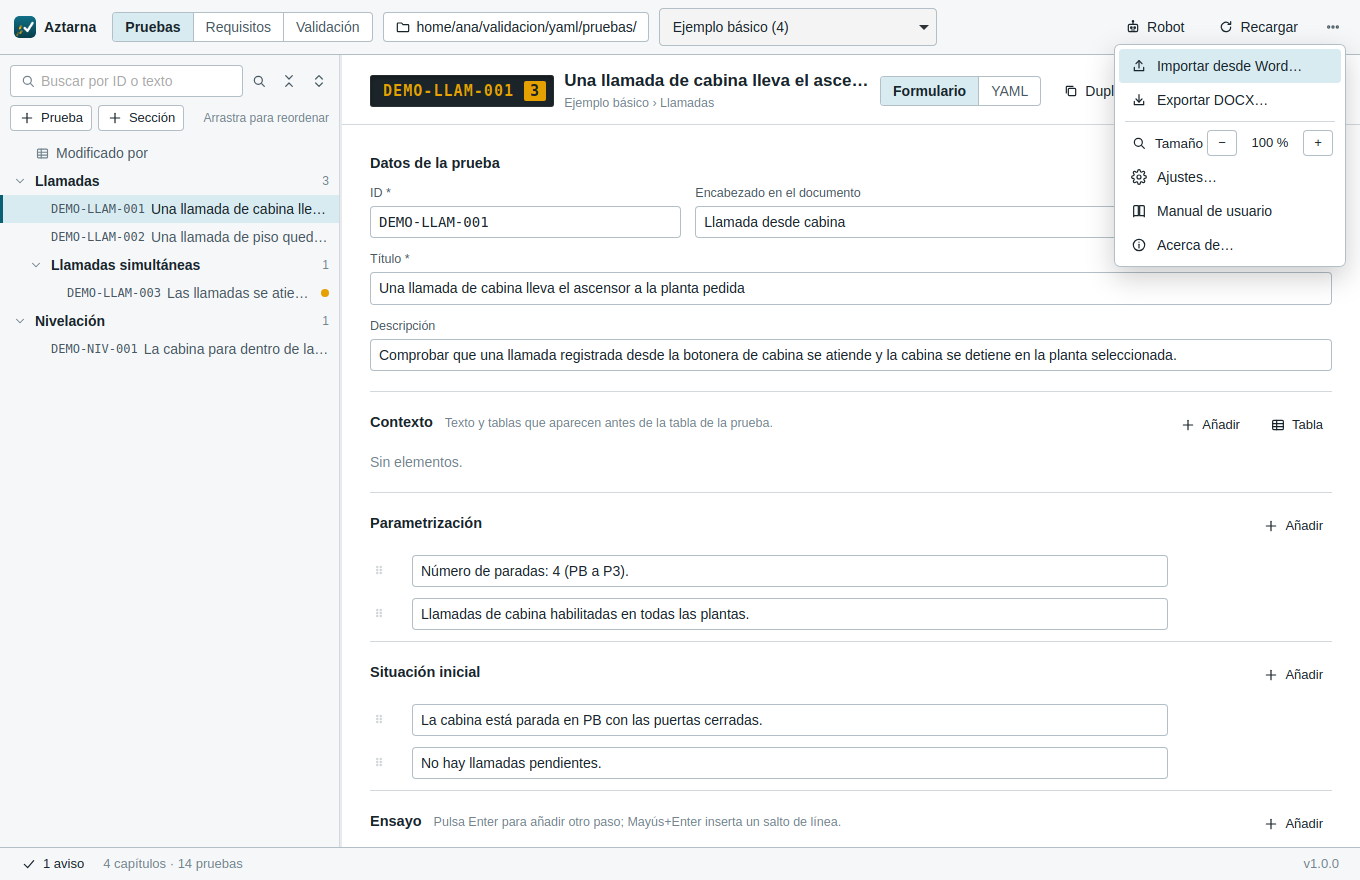
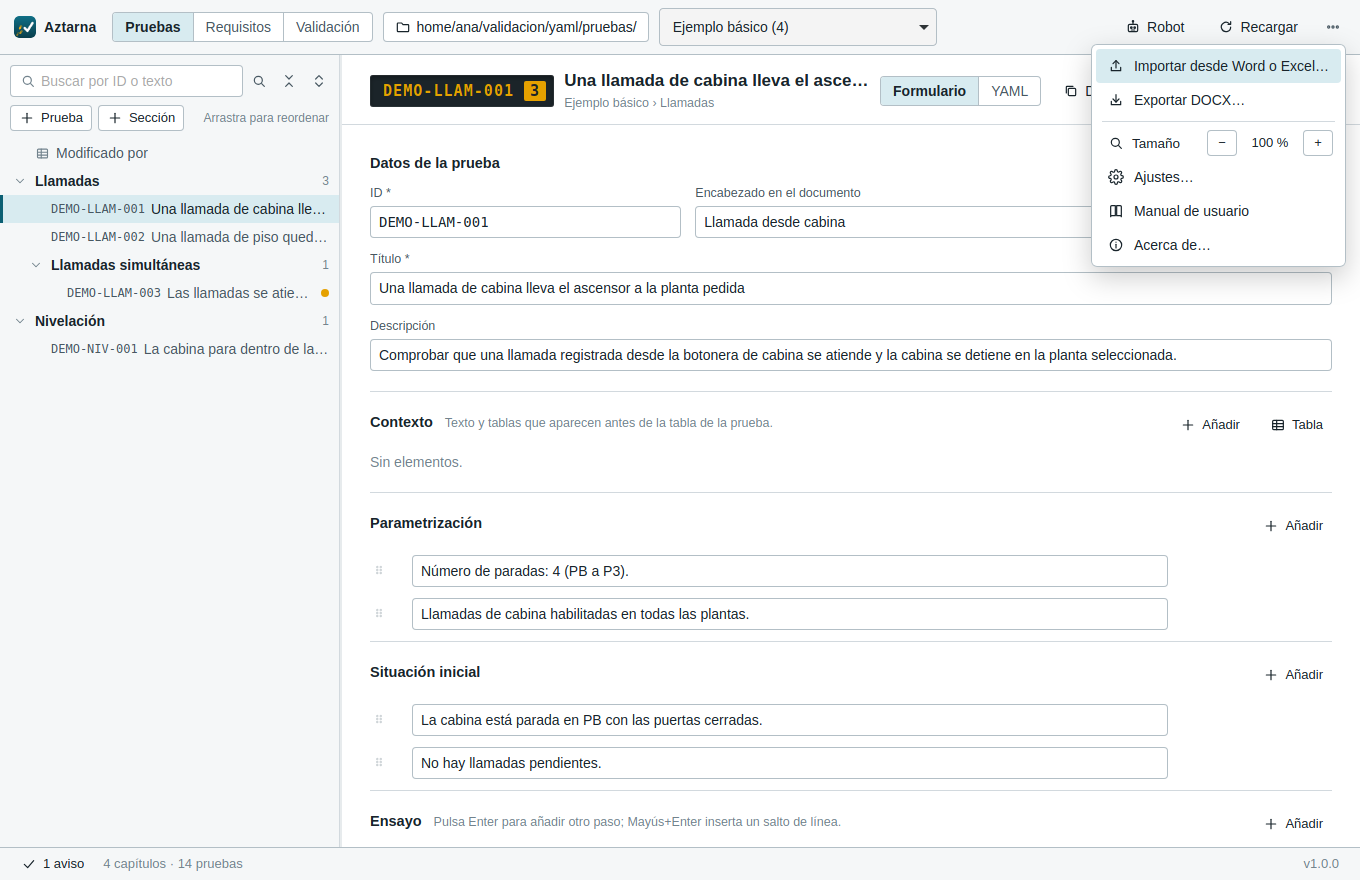
Manual, README, CHANGELOG y capturas de la importación desde Excel
- Manual: apartado 7 «Importar desde Word o Excel», con importar poco a poco,
  7.6 «Desde Excel» y 7.7 «El mapeo del proyecto (importacion.yaml)».
- Capturas nuevas (54-56) y rehechas (35, 37).
- README y CHANGELOG (1.1.0).

Cierra #9

Changed region(s): [[0.8029, 0.1534, 0.9265, 0.3068], [0.8029, 0.0614, 0.9574, 0.1227]]

diff --git a/MANUAL.md b/MANUAL.md
@@ -12,7 +12,7 @@ ejecutan. No hace falta saber programar ni conocer el formato de los archivos.
 4. [Editar pruebas (modo Pruebas)](#4-editar-pruebas-modo-pruebas)
 5. [Requisitos y trazabilidad (modo Requisitos)](#5-requisitos-y-trazabilidad-modo-requisitos)
 6. [Ejecutar y validar (modo Validación)](#6-ejecutar-y-validar-modo-validación)
-7. [Importar desde Word](#7-importar-desde-word)
+7. [Importar desde Word o Excel](#7-importar-desde-word-o-excel)
 8. [Atajos de teclado](#8-atajos-de-teclado)
 9. [Preguntas frecuentes y problemas](#9-preguntas-frecuentes-y-problemas)
 10. [Robot Framework: guía para quien escribe los tests](#10-robot-framework-guía-para-quien-escribe-los-tests)
@@ -172,8 +172,9 @@ en Ubuntu, *Configuración → Apariencia*.
 
 El menú **⋯**, a la derecha de la barra superior, reúne:
 
-- **Importar desde Word…**: pruebas, requisitos o resultados de una
-  ejecución (ver 7). En el modo Validación, solo resultados.
+- **Importar desde Word o Excel…**: pruebas o requisitos de un Word o un
+  Excel, o resultados de una ejecución desde Word (ver 7). En el modo
+  Validación, solo resultados.
 - **Exportar DOCX…** (en el modo Requisitos, *Exportar DOCX de requisitos…*):
   ver 4.8. No aparece en el modo Validación.
 - **Tamaño**: **−** y **+** agrandan o reducen todo (texto, botones,
@@ -905,13 +906,16 @@ versión, archiva su validación con el informe.
 
 ---
 
-## 7. Importar desde Word
+## 7. Importar desde Word o Excel
 
-**⋯ → Importar desde Word…** trae al proyecto las pruebas o los requisitos de
-un documento de Word, o los resultados de una ejecución. El editor no cambia
-nada hasta el último paso, y recuerda lo que eliges para la próxima vez.
+**⋯ → Importar desde Word o Excel…** trae al proyecto las pruebas o los
+requisitos de un documento de Word o de un Excel, o los resultados de una
+ejecución (desde Word). El editor no cambia nada hasta el último paso, y
+recuerda lo que eliges para la próxima vez (ver 7.7). Se puede importar
+**poco a poco**: cada vez, un Word o un Excel con unas pocas pruebas nuevas o
+cambiadas, que van a su capítulo y su sección del proyecto (ver 7.4).
 
-Se espera la forma de las plantillas: la primera fila de cada tabla es
+Del Excel se habla en 7.6. Del Word se espera la forma de las plantillas: la primera fila de cada tabla es
 «**ID** | **Título**» y cada celda de las demás empieza por «**Etiqueta:**
 valor» («Descripción: …», «Fuente: …»). Un párrafo «Etiqueta:» solo en su
 línea abre otro campo dentro de la misma celda («Situación inicial:» y
@@ -922,10 +926,12 @@ secciones.
 
 ![Elegir el documento](docs/manual/37_importar_documento.png)
 
-Elige el Word, **qué contiene** (pruebas, requisitos, los dos, o resultados;
-solo sirve para proponer) y **dónde se importa**: en un **proyecto nuevo**
-(una carpeta con `pruebas/` y `requisitos/`; nada de lo que ya tienes se toca)
-o **añadido al proyecto abierto** (sus capítulos van al final del índice).
+Elige el Word o el Excel, **qué contiene** (pruebas, requisitos, los dos, o
+resultados; solo sirve para proponer) y **dónde se importa**: en un **proyecto
+nuevo** (una carpeta con `pruebas/` y `requisitos/`; nada de lo que ya tienes
+se toca) o **añadido al proyecto abierto**: lo de cada capítulo va al capítulo
+del proyecto con el mismo nombre (si no hay ninguno, se crea al final del
+índice).
 
 Con documentos grandes cada paso puede tardar un poco: la ventana se pone gris
 con un mensaje y el tiempo que lleva.
@@ -982,6 +988,15 @@ en cada uno y qué hacer:
 Por defecto se actualizan los que cambian y no se tocan los que están igual;
 *Para todos…* aplica lo mismo a todos.
 
+**Importar poco a poco.** Al añadir al proyecto abierto, cada capítulo del
+documento va al capítulo del proyecto con el mismo nombre (la revisión lo
+indica: *se añade al capítulo que ya existe*), y dentro de él cada prueba a
+la sección con el mismo nombre, detrás de las que ya tiene. Una sección que
+no existe se crea al final de su sección madre. No se repiten los textos ni
+las tablas que ya estaban, ni las secciones que se quedarían vacías porque
+todas sus pruebas ya existían. Así cada persona puede ir importando sus
+pruebas nuevas, una tanda cada vez, sin que se dupliquen capítulos.
+
 ### 7.5 Resultados de una ejecución
 
 Para un Word con las tablas de las pruebas y unas filas más con el resultado
@@ -1007,6 +1022,75 @@ prueba, banco y responsable. Con una validación abierta, se puede crear
 
 La ejecución queda **abierta** con esas pruebas y sus resultados (con su fecha
 y quién la ejecutó): revísala, completa las pendientes y ciérrala.
+
+### 7.6 Desde Excel
+
+Un Excel con **una fila por prueba** (o por requisito) y **una columna por
+campo**. Lo más cómodo es partir de la plantilla: en el primer paso del
+asistente, *Descarga una plantilla* guarda un Excel con una columna por campo
+(con las opciones del proyecto en desplegables) que se importa sin tener que
+elegir nada.
+
+- **Hojas.** Cada hoja es un grupo; en el paso 2 eliges qué hay en cada una:
+  pruebas, requisitos o *No importar* (para las de notas o datos).
+
+  ![Las hojas del Excel](docs/manual/54_excel_hojas.png)
+
+- **Columnas.** La cabecera es la primera fila con dos celdas o más (puede
+  haber un título encima). En el paso 3 eliges a qué campo va cada columna,
+  igual que con las etiquetas del Word; además de los campos están **ID**,
+  **Título**, **Capítulo** y **Sección**.
+
+  ![A qué campo va cada columna](docs/manual/55_excel_columnas.png)
+
+- **Filas.** Cada fila con ID o título es una prueba nueva. Una fila sin ID ni
+  título continúa la de arriba: así se puede escribir un paso por fila.
+- **Listas** (pasos, situación inicial, parametrización): una línea por
+  elemento dentro de la celda (**Alt+Intro**); «1.», «-» o «•» al principio
+  se quitan. Requisitos y tags, separados por comas o en líneas.
+- **Capítulo y sección.** Sin columna *Capítulo*, el capítulo es el nombre de
+  la hoja. «A > B» en la sección es la subsección B de A. Una celda vacía de
+  capítulo o sección sigue siendo la de arriba (como una celda combinada).
+- **Actualizar desde un Excel** cambia solo los campos que tienen columna: lo
+  demás que tenga la prueba (escrito después en el editor, por ejemplo) se
+  conserva, y sus campos adicionales se añaden a los que ya tenía.
+- Las imágenes del Excel no se importan (se avisa); añádelas en el editor.
+  Los resultados de una ejecución se importan desde Word.
+
+### 7.7 El mapeo del proyecto (importacion.yaml)
+
+Al importar, en la revisión está marcado **Guardar lo elegido en el
+proyecto**: qué es cada hoja y a qué campo va cada columna o etiqueta se
+guardan en `importacion.yaml`, en la carpeta del proyecto (junto a
+`aztarna.yaml`). Súbelo a Git con las pruebas: la próxima vez que alguien
+importe en el proyecto, desde cualquier PC, el paso **Campos** dice *Se parte
+del mapeo del proyecto* y trae elegido lo de la vez anterior.
+
+![Campos elegidos a partir del mapeo del proyecto](docs/manual/56_excel_mapeo_proyecto.png)
+
+Se puede editar a mano. Los nombres van tal cual están en el Excel o en el
+Word (no cuentan mayúsculas, tildes ni espacios) y los campos, como en el
+desplegable (`id`, `titulo`, `pasos`, `adicional`, `ignorar`…):
+
+```yaml
+excel:
+  hojas:
+    Llamadas: prueba
+    Notas: ignorar
+  columnas:
+    prueba:
+      ID: id
+      Pasos a seguir: pasos
+      Comentario: ignorar
+word:
+  etiquetas:
+    prueba:
+      ENSAYO(s) / Proceso(s): pasos
+```
+
+Lo que no se pueda usar (un campo que no existe) se avisa en el paso
+**Campos**. Sin `importacion.yaml`, se usa lo recordado en tu PC y, si no, lo
+que el editor deduce de los nombres.
 
 ---
 

diff --git a/README.md b/README.md
@@ -46,7 +46,7 @@ herramientas.py` las lista y `<orden> --help` explica sus opciones):
 
 | Orden | Hace |
 |---|---|
-| `importar documento.docx -o proyecto` | Word → proyecto nuevo (pruebas o requisitos), con el mapeo propuesto |
+| `importar documento.docx -o proyecto` | Word o Excel → proyecto nuevo (pruebas o requisitos), con el mapeo propuesto |
 | `convertir documento.docx -o importacion` | Importación inicial del Word de pruebas, con avisos |
 | `inventario documento.docx` | Agrupa las tablas del Word por estructura |
 | `auditar documento.docx importacion/yaml` | Comprueba que la importación no pierde texto |
@@ -64,6 +64,7 @@ herramientas.py` las lista y `<orden> --help` explica sus opciones):
 ```text
 proyecto/
 ├── aztarna.yaml   opciones de maniobra y entorno del proyecto (opcional)
+├── importacion.yaml  cómo se importan sus Word y Excel (lo escribe el asistente; opcional)
 ├── pruebas/       indice.yaml, un YAML por capítulo, imagenes/ y formato.yaml
 └── requisitos/    lo mismo, y revisiones.yaml (requisitos cambiados)
 
@@ -142,12 +143,23 @@ al cerrar una ejecución se guarda una copia con sus pruebas congeladas. En
 línea de órdenes, `convertir`, `auditar` e `importar` admiten
 `--configuracion aztarna.yaml`.
 
-## Importación inicial desde Word
+## Importar desde Word o Excel
 
-El asistente del editor (**⋯ → Importar desde Word…**) o la orden `importar`
-cubren lo habitual: proponen qué es cada familia de tablas y a qué campo va
-cada etiqueta, y lo elegido se recuerda. La importación con la que empezó el
-proyecto se conserva como `convertir` + `auditar` + `ids`:
+El asistente del editor (**⋯ → Importar desde Word o Excel…**) o la orden
+`importar` cubren lo habitual: proponen qué es cada familia de tablas (o cada
+hoja del Excel) y a qué campo va cada etiqueta (o columna). Lo elegido se
+guarda en el `importacion.yaml` del proyecto (`app/mapeo_importacion.py`), para
+que todo el equipo importe igual, y en los ajustes del PC.
+
+- **Excel** (`app/importacion_excel.py`): una fila por elemento y una columna
+  por campo, con columnas de capítulo y sección; una fila sin ID ni título
+  continúa la de arriba. La plantilla se descarga desde el asistente. Al
+  actualizar desde un Excel solo cambian los campos que tienen columna.
+- **Poco a poco**: al añadir al proyecto abierto, cada capítulo importado va al
+  que ya existe con el mismo nombre, en su sección (`importacion.unir_capitulo`).
+
+La importación con la que empezó el proyecto se conserva como `convertir` +
+`auditar` + `ids`:
 
 ```bash
 python herramientas.py convertir "/ruta/privada/original.docx" -o importacion --configuracion aztarna.yaml

diff --git a/CHANGELOG.md b/CHANGELOG.md
@@ -3,6 +3,30 @@
 Qué trae cada versión. La versión está en `app/__init__.py` (`__version__`) y
 cada versión publicada lleva su etiqueta de Git (`v0.8.0`…).
 
+## 1.1.0
+
+Importar poco a poco, también desde Excel:
+
+- **Importar desde Excel** (⋯ → *Importar desde Word o Excel…*): una fila por
+  prueba o requisito y una columna por campo. Cada hoja es un grupo; las
+  columnas *Capítulo* y *Sección* ordenan las filas (sin ellas, el capítulo es
+  la hoja; «A > B» es una subsección); una fila sin ID ni título continúa la de
+  arriba (un paso por fila); en las listas, una línea por elemento. **Plantilla
+  de Excel** con una columna por campo y las opciones del proyecto en
+  desplegables, desde el primer paso del asistente.
+- **Importar poco a poco**: al añadir al proyecto abierto, cada capítulo va al
+  que ya existe con el mismo nombre y cada prueba a su sección, sin repetir
+  capítulos, textos ni secciones vacías. (Antes, cada importación añadía sus
+  capítulos al final del índice.)
+- Al **actualizar desde un Excel** solo cambian los campos que tienen columna;
+  los demás se conservan y los campos adicionales se combinan.
+- **Mapeo del proyecto** (`importacion.yaml`, junto a `aztarna.yaml`): lo
+  elegido al importar se guarda en el proyecto, para que todo el equipo
+  importe igual sin volver a elegir los campos. Se puede editar a mano.
+
+Necesita `openpyxl` (en `requirements.txt`). Sin cambios en el formato de los
+datos (sigue el 1).
+
 ## 1.0.0
 
 Primera versión con el nombre definitivo, **Aztarna** («huella, rastro» en
